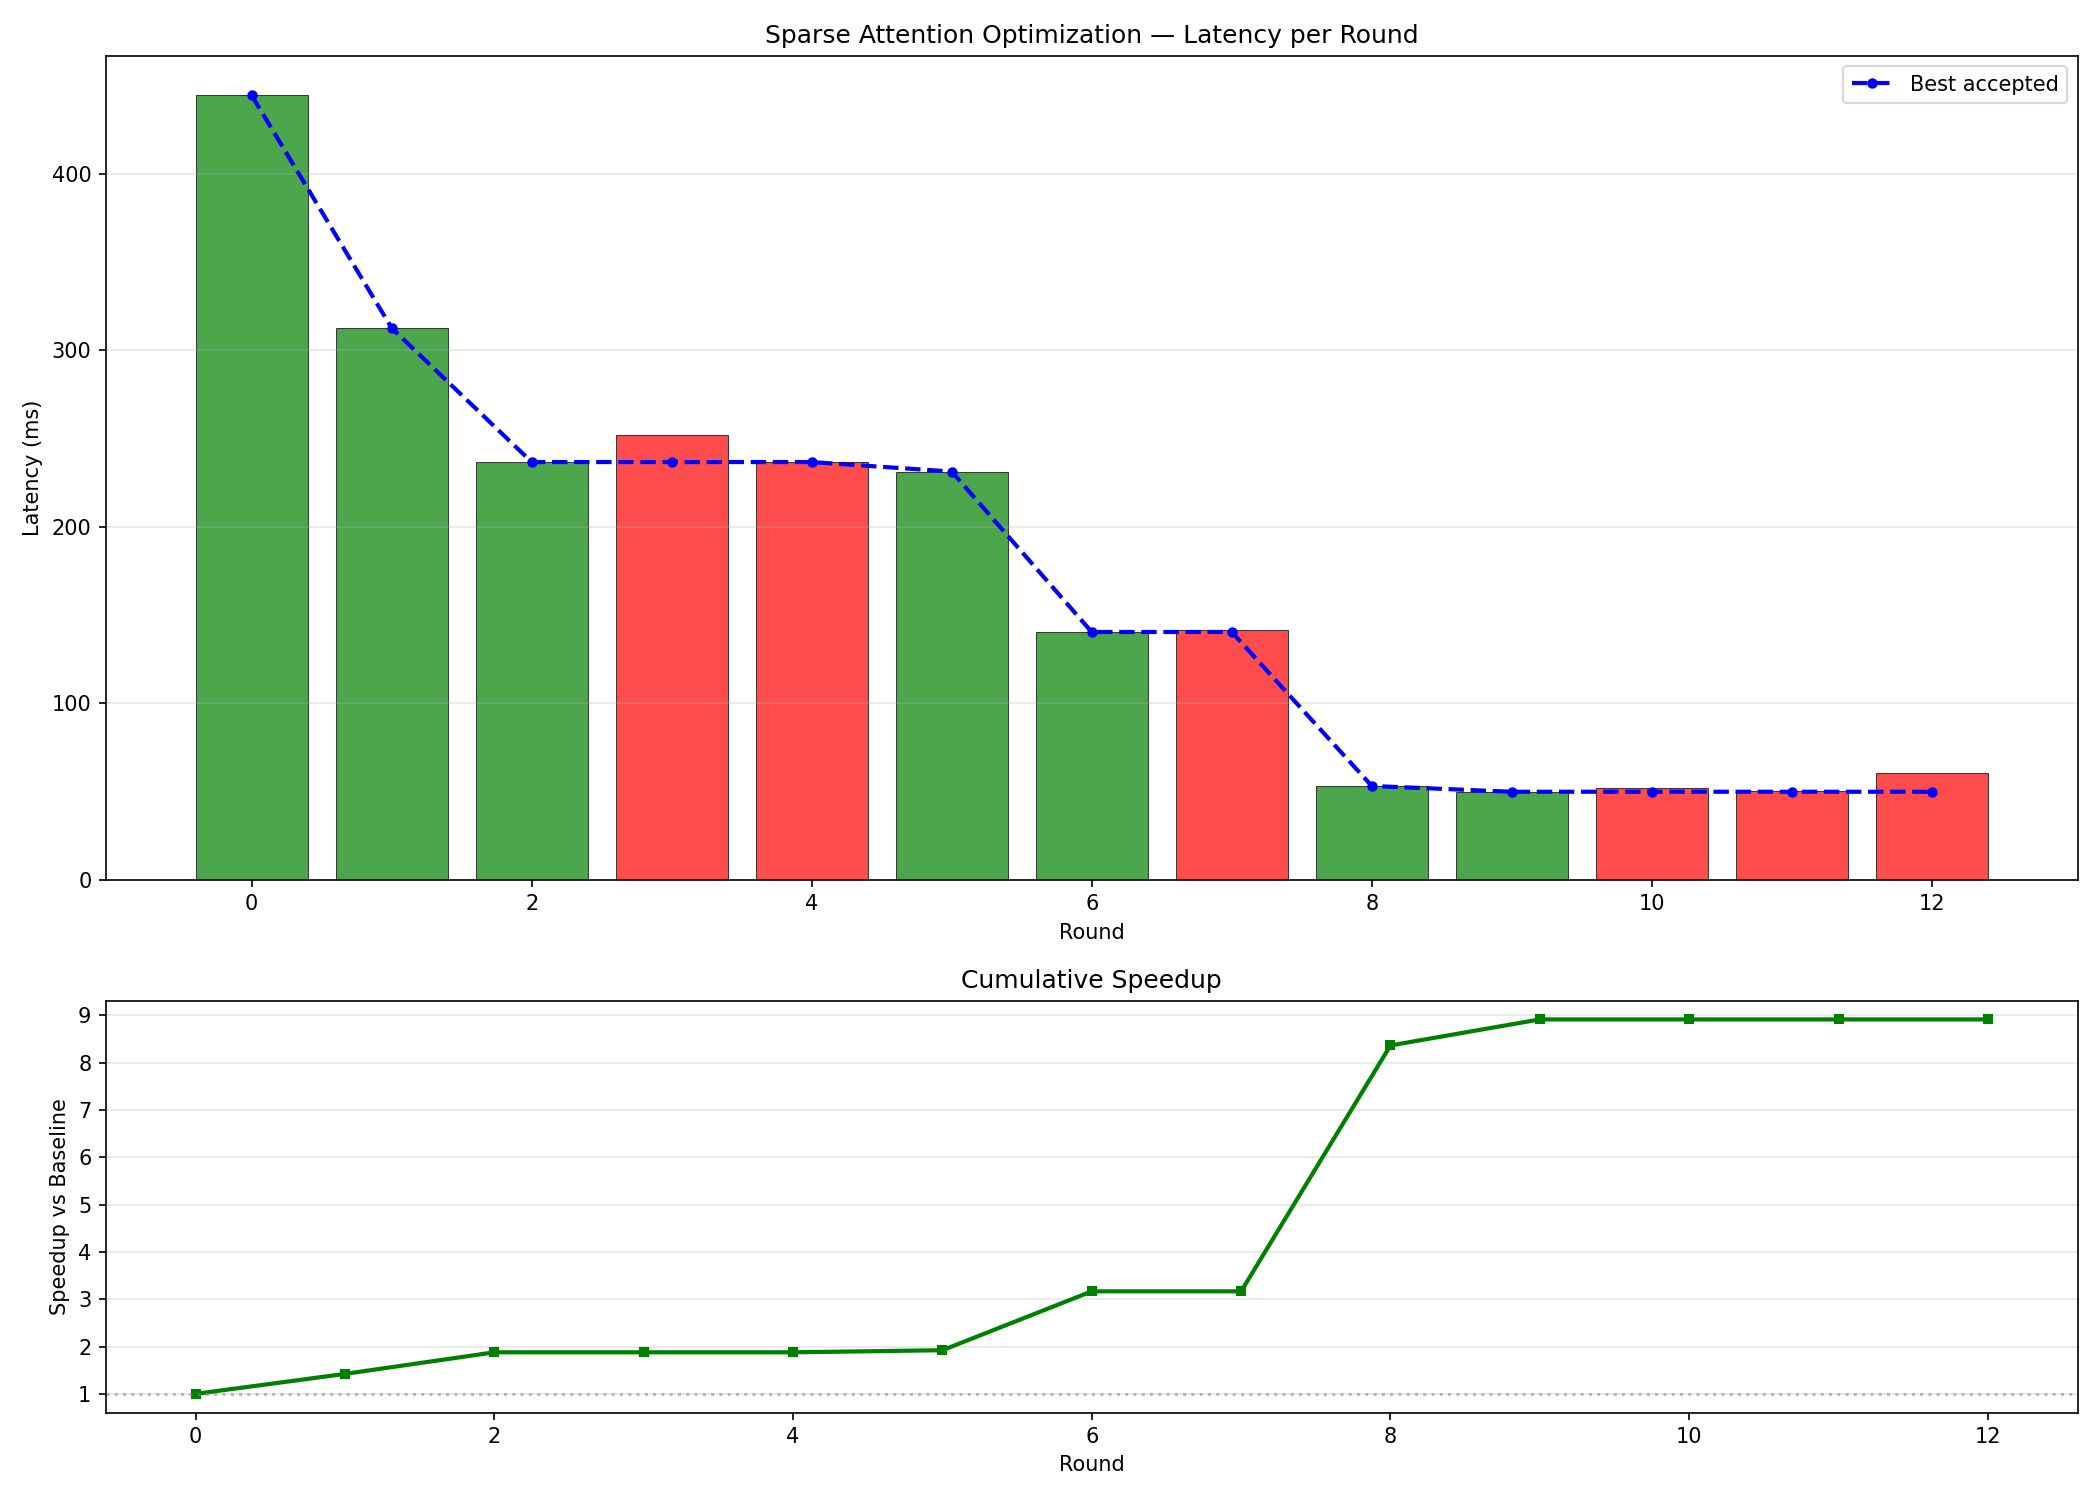
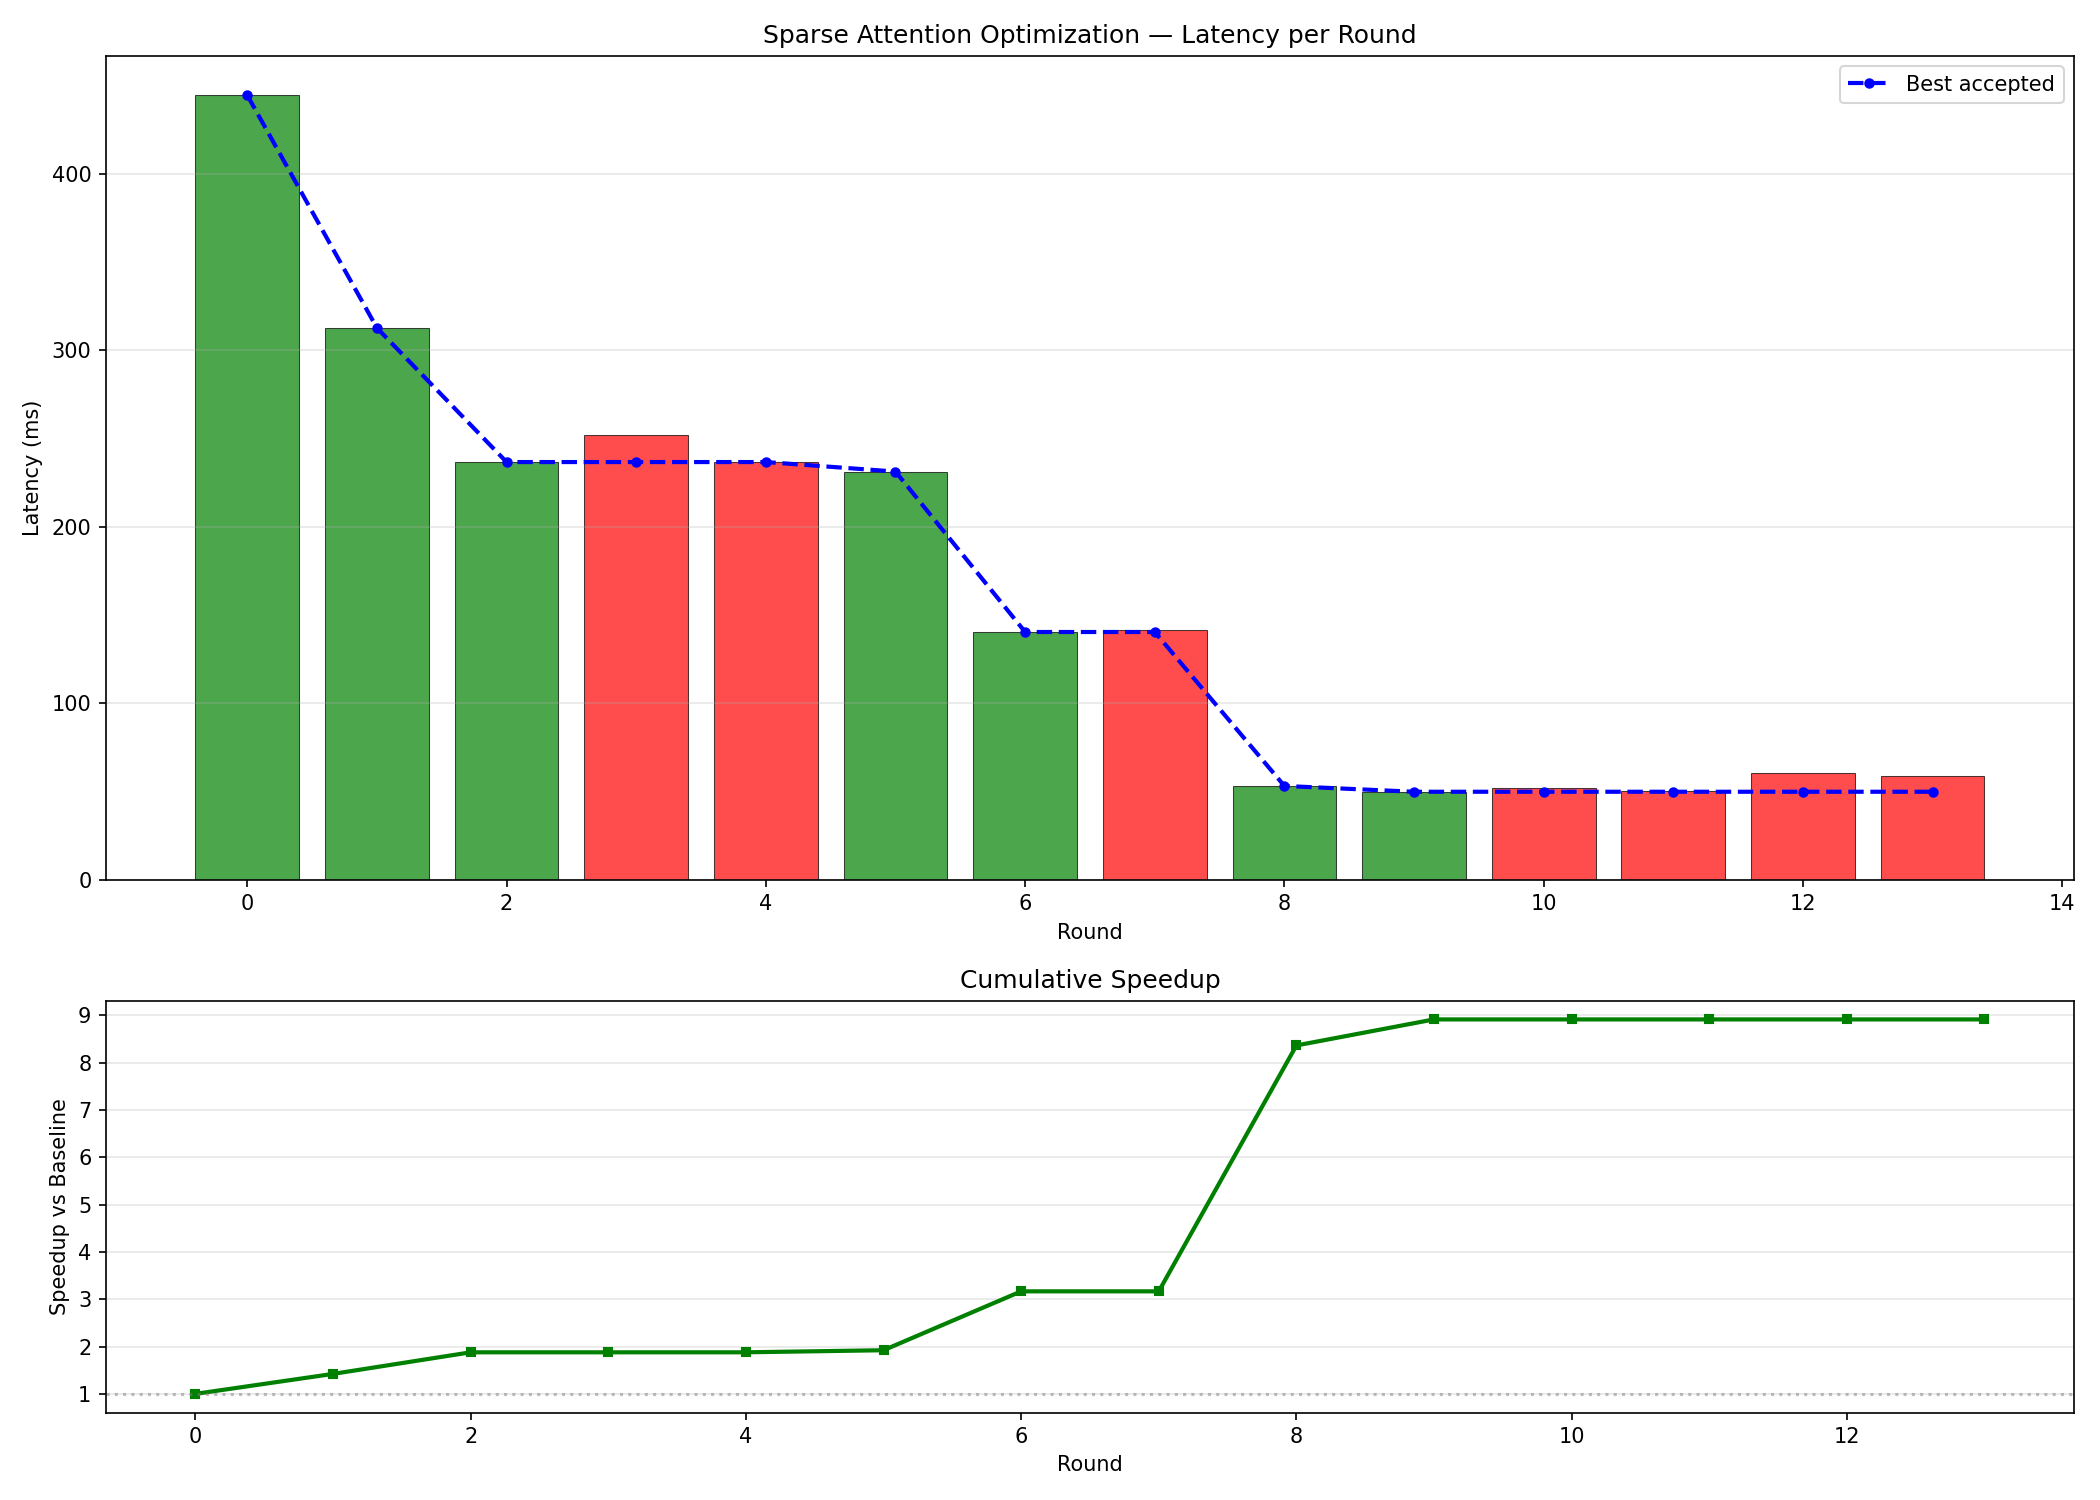
Update perf_log.md with 13-round summary table

diff --git a/notes/perf_log.md b/notes/perf_log.md
@@ -27,3 +27,29 @@ Analysis: Moderate improvement from better memory reuse and doubled warp occupan
 warps/SM). Still memory-latency bound — the per-column inner loop with warp_reduce_sum +
 online softmax is heavy on instruction overhead relative to the small D=64 compute.
 
+## Summary after 13 Rounds
+
+| Round | Optimization | Latency (ms) | Speedup | Status |
+|-------|-------------|-------------|---------|--------|
+| 0 | Baseline (scalar 1-warp) | 444.4 | 1.00x | - |
+| 1 | Tiled smem K/V (BM=4) | 312.6 | 1.42x | ACCEPT |
+| 2 | BLOCK_M=16 (16 warps) | 236.6 | 1.88x | ACCEPT |
+| 3 | BLOCK_N=128 | 252.1 | - | REJECT |
+| 4 | Column-split 16 warps | 236.9 | - | REJECT |
+| 5 | WMMA TC BN=16 (smem O) | 231.2 | 1.92x | ACCEPT |
+| 6 | WMMA BN=32 (halved tiles) | 140.3 | 3.17x | ACCEPT |
+| 7 | Block-level mask skip | 141.5 | - | REJECT |
+| 8 | Fragment O_acc + runtime row mapping | 53.1 | 8.36x | ACCEPT |
+| 9 | NWARPS=8 (BM=128) | **49.9** | **8.91x** | **ACCEPT** |
+| 10 | Q from global/L2 | 52.1 | - | REJECT |
+| 11 | Warp-level mask skip | 50.4 | - | REJECT |
+| 12 | BN=64 | 60.4 | - | REJECT |
+| 13 | Two-pass softmax | 58.8 | - | REJECT |
+
+**Current best**: 49.9 ms (16.54 TFLOPS, 14.4% MFU)
+**Key breakthroughs**: WMMA tensor cores (R5-R6), fragment O accumulation with runtime
+mapping (R8), larger BLOCK_M for K/V sharing (R9).
+
+Remaining gap vs Triton (20.4ms): ~2.4x. Main bottleneck is per-tile softmax overhead
+(smem round-trips for S and P, expf calls, shuffle reductions).
+
